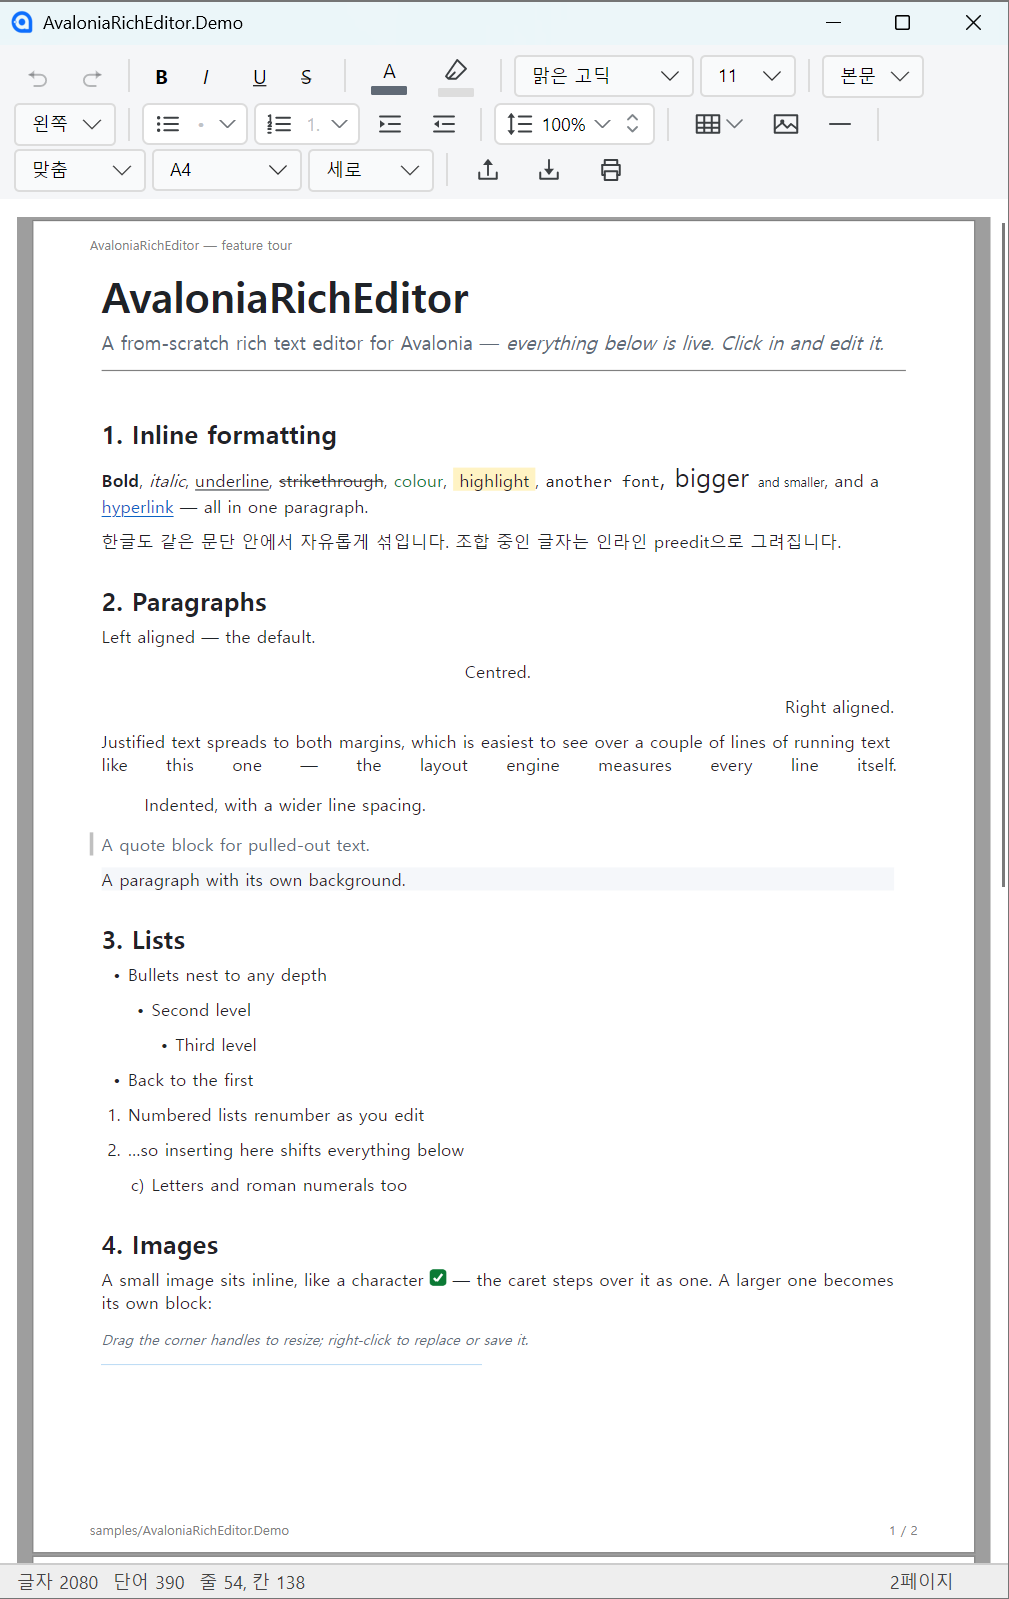
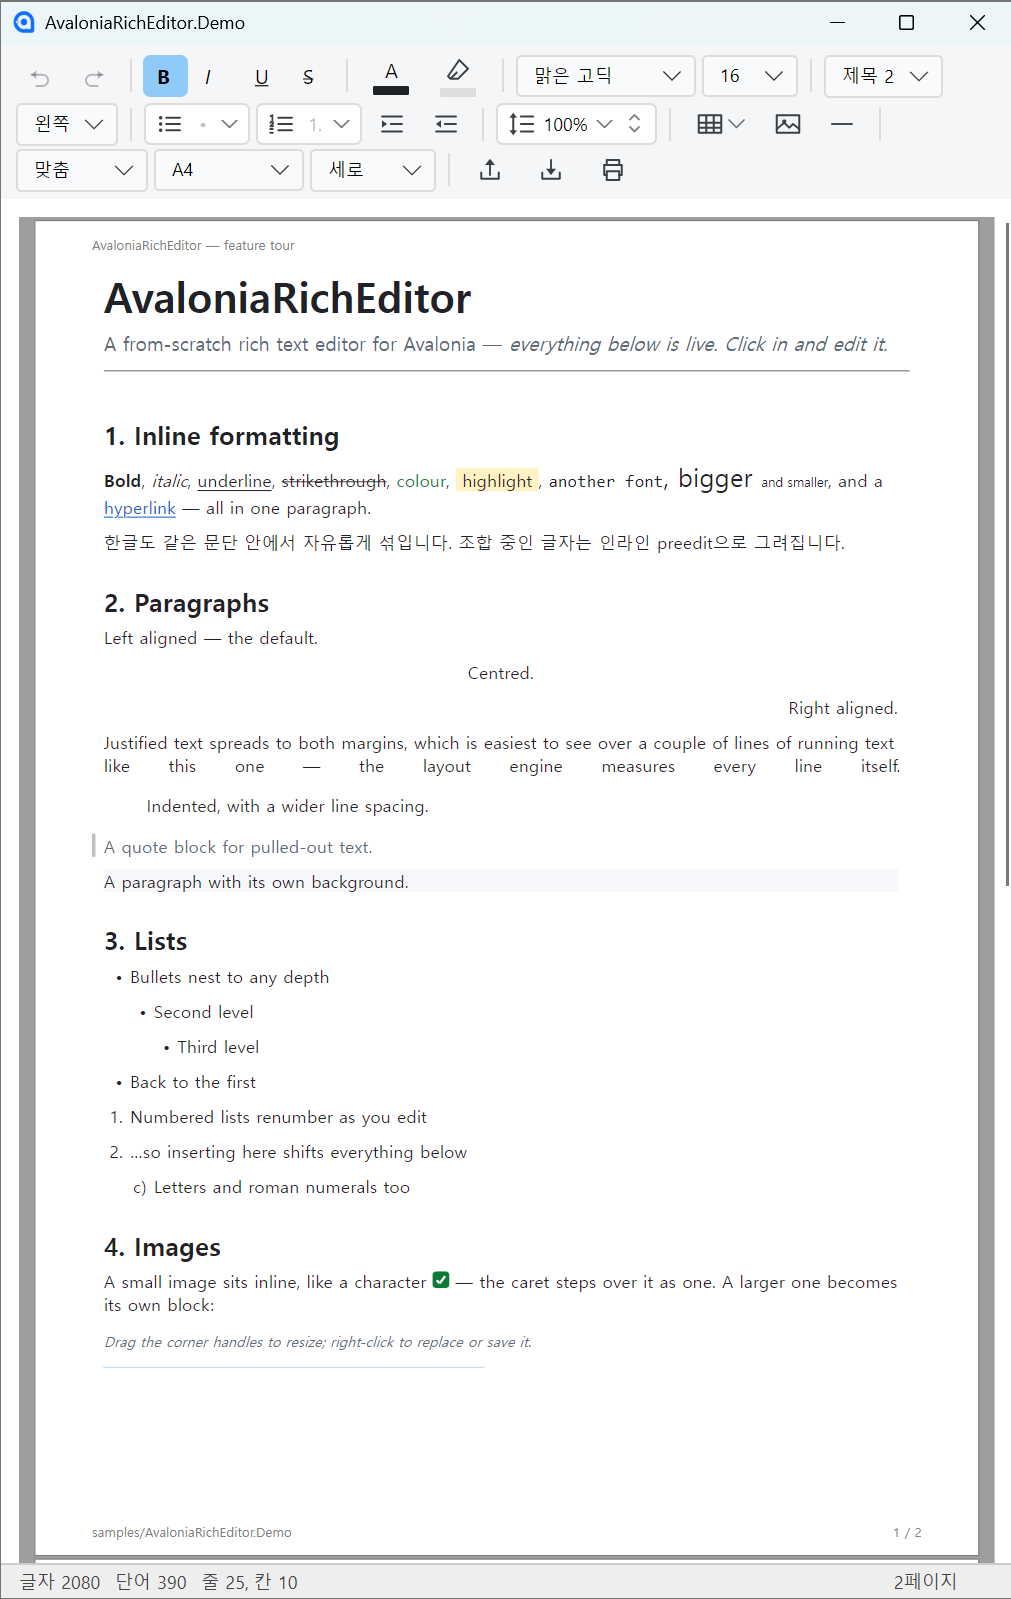
docs: retake the README screenshots without the always-on handle
Recaptured after the handle change, so the hero no longer carries a solid accent
square on the picture's corner — the artifact that prompted the change. The
unselected picture keeps its faint outline, which is what a reader should see.

Same framing and pages as before: page 2 (picture, merged shaded header, nested
table, inline table) as the hero, page 1 (formatting, alignments, nested lists) at
the head of the feature list.

diff --git a/docs/images/README.md b/docs/images/README.md
@@ -29,5 +29,5 @@ raw URL은 `main`에 올라간 커밋을 가리키므로, 이미지를 바꾸면
 
 - 툴바가 **한국어**로 나온다. 데모가 기본 로케일을 따르기 때문이고, 현지화가 있다는 증거이기도 하다.
   영어 UI 스크린샷을 원하면 데모에서 `RichEditorLocalization.Language`를 바꾼 뒤 다시 찍으면 된다.
-- ⚠ **현재 스크린샷은 2026-08-08 핸들 변경 이전 것이다.** 그림 오른쪽 아래의 작은 파란 사각형은
-  리사이즈 핸들인데, 이제는 **그림을 선택했을 때만** 그려진다. 다시 찍으면 그 사각형이 사라진다.
+- 그림에 리사이즈 핸들(파란 사각형)이 보이지 않는 것이 정상이다. 2026-08-08부터 핸들은 **그림을
+  선택했을 때만** 그려진다. 선택 안 된 그림에는 옅은 외곽선만 남는다.

diff --git a/CHANGELOG.md b/CHANGELOG.md
@@ -23,7 +23,7 @@ before; clicking a picture already selected it, so the gesture is the one users 
 
 The six cell-image resize tests now select first, which is what they were always about; the drag
 arithmetic they pin is unchanged. `AResizeHandleAppearsOnlyOnceThePictureIsSelected` clicks for real and
-fails against the previous behaviour.
+fails against the previous behaviour. The README screenshots were retaken after the change.
 
 
 ## [1.1.0] - 2026-08-08
